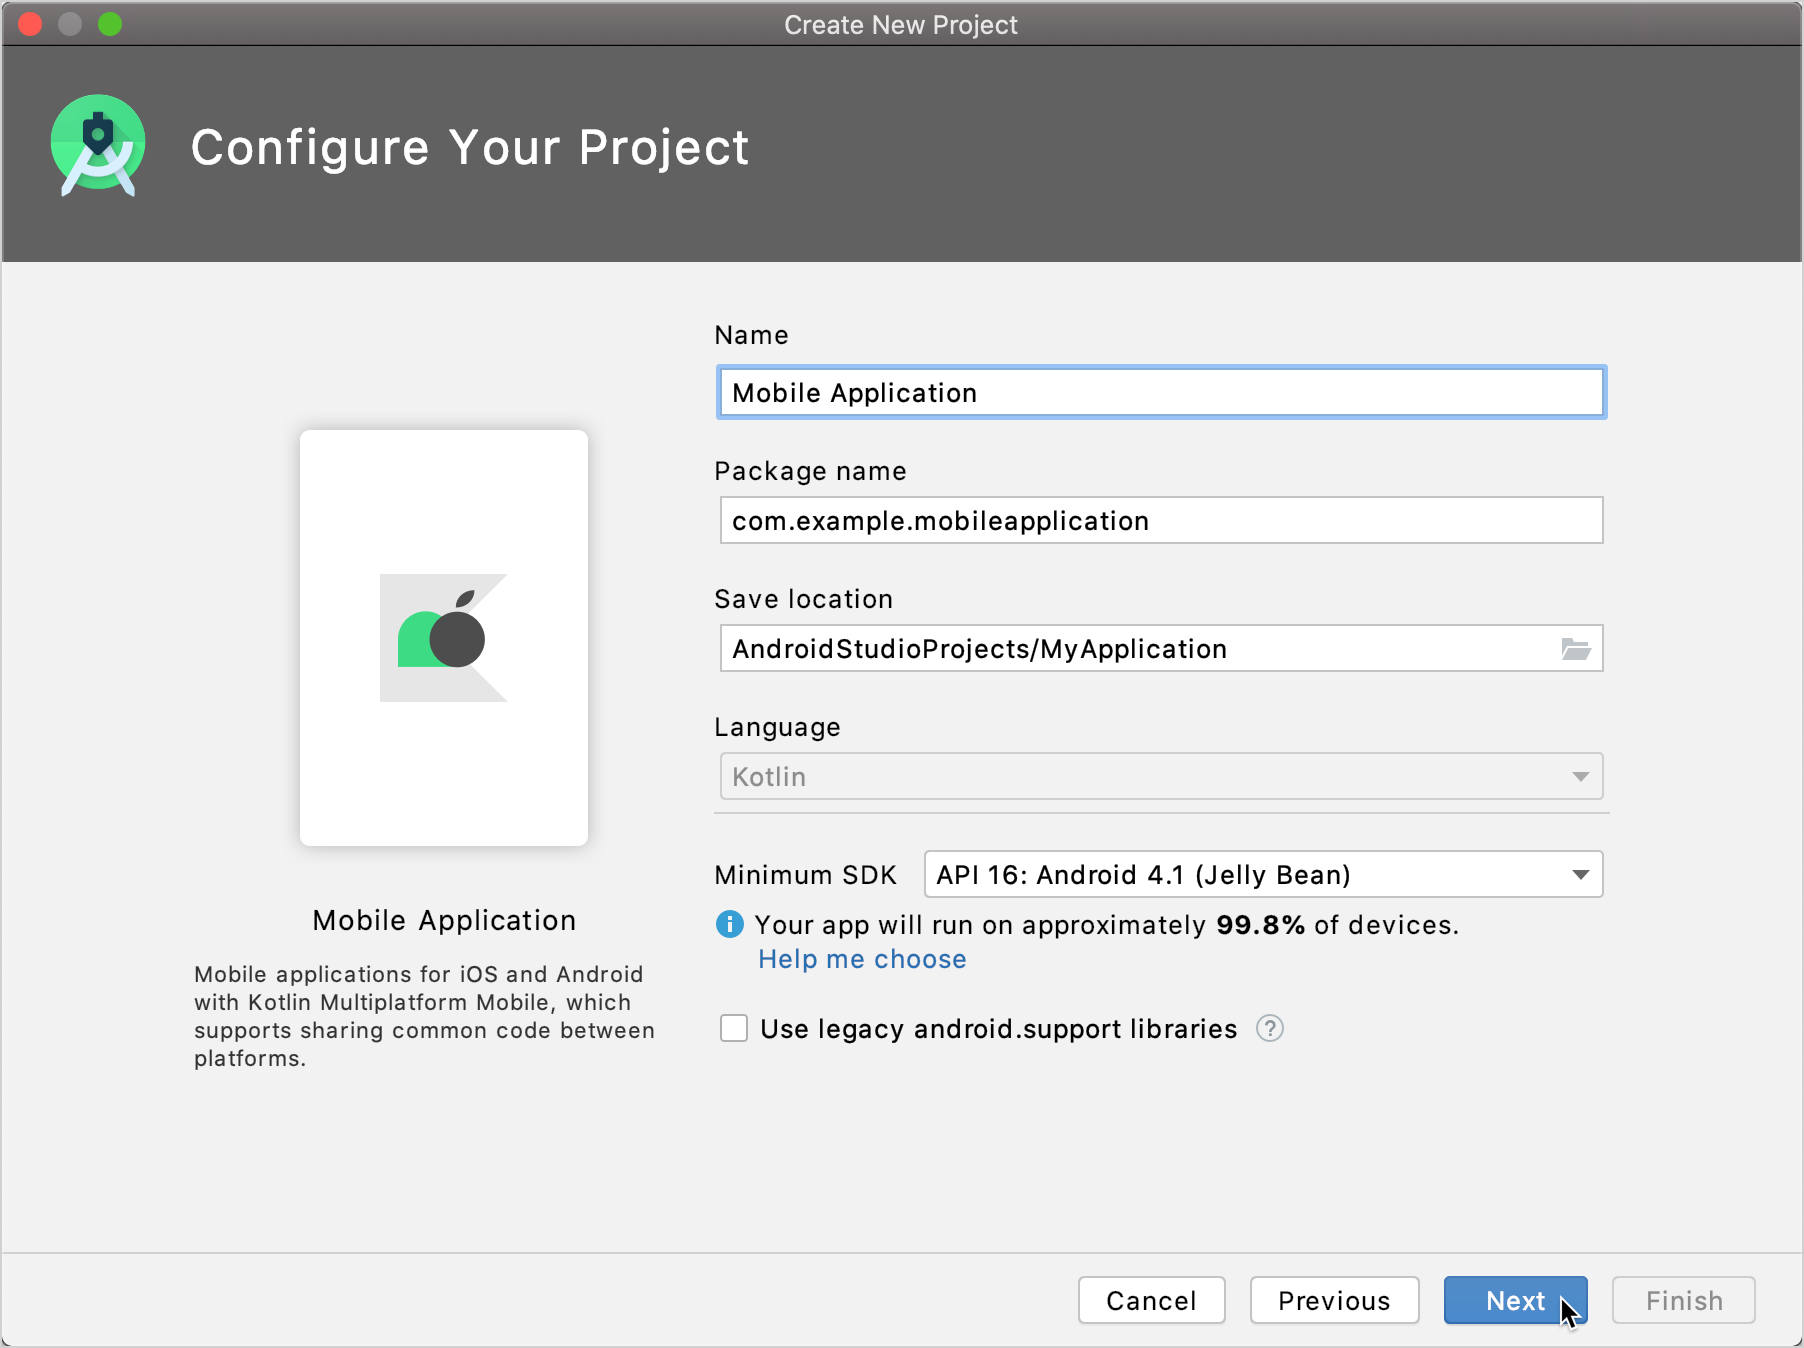
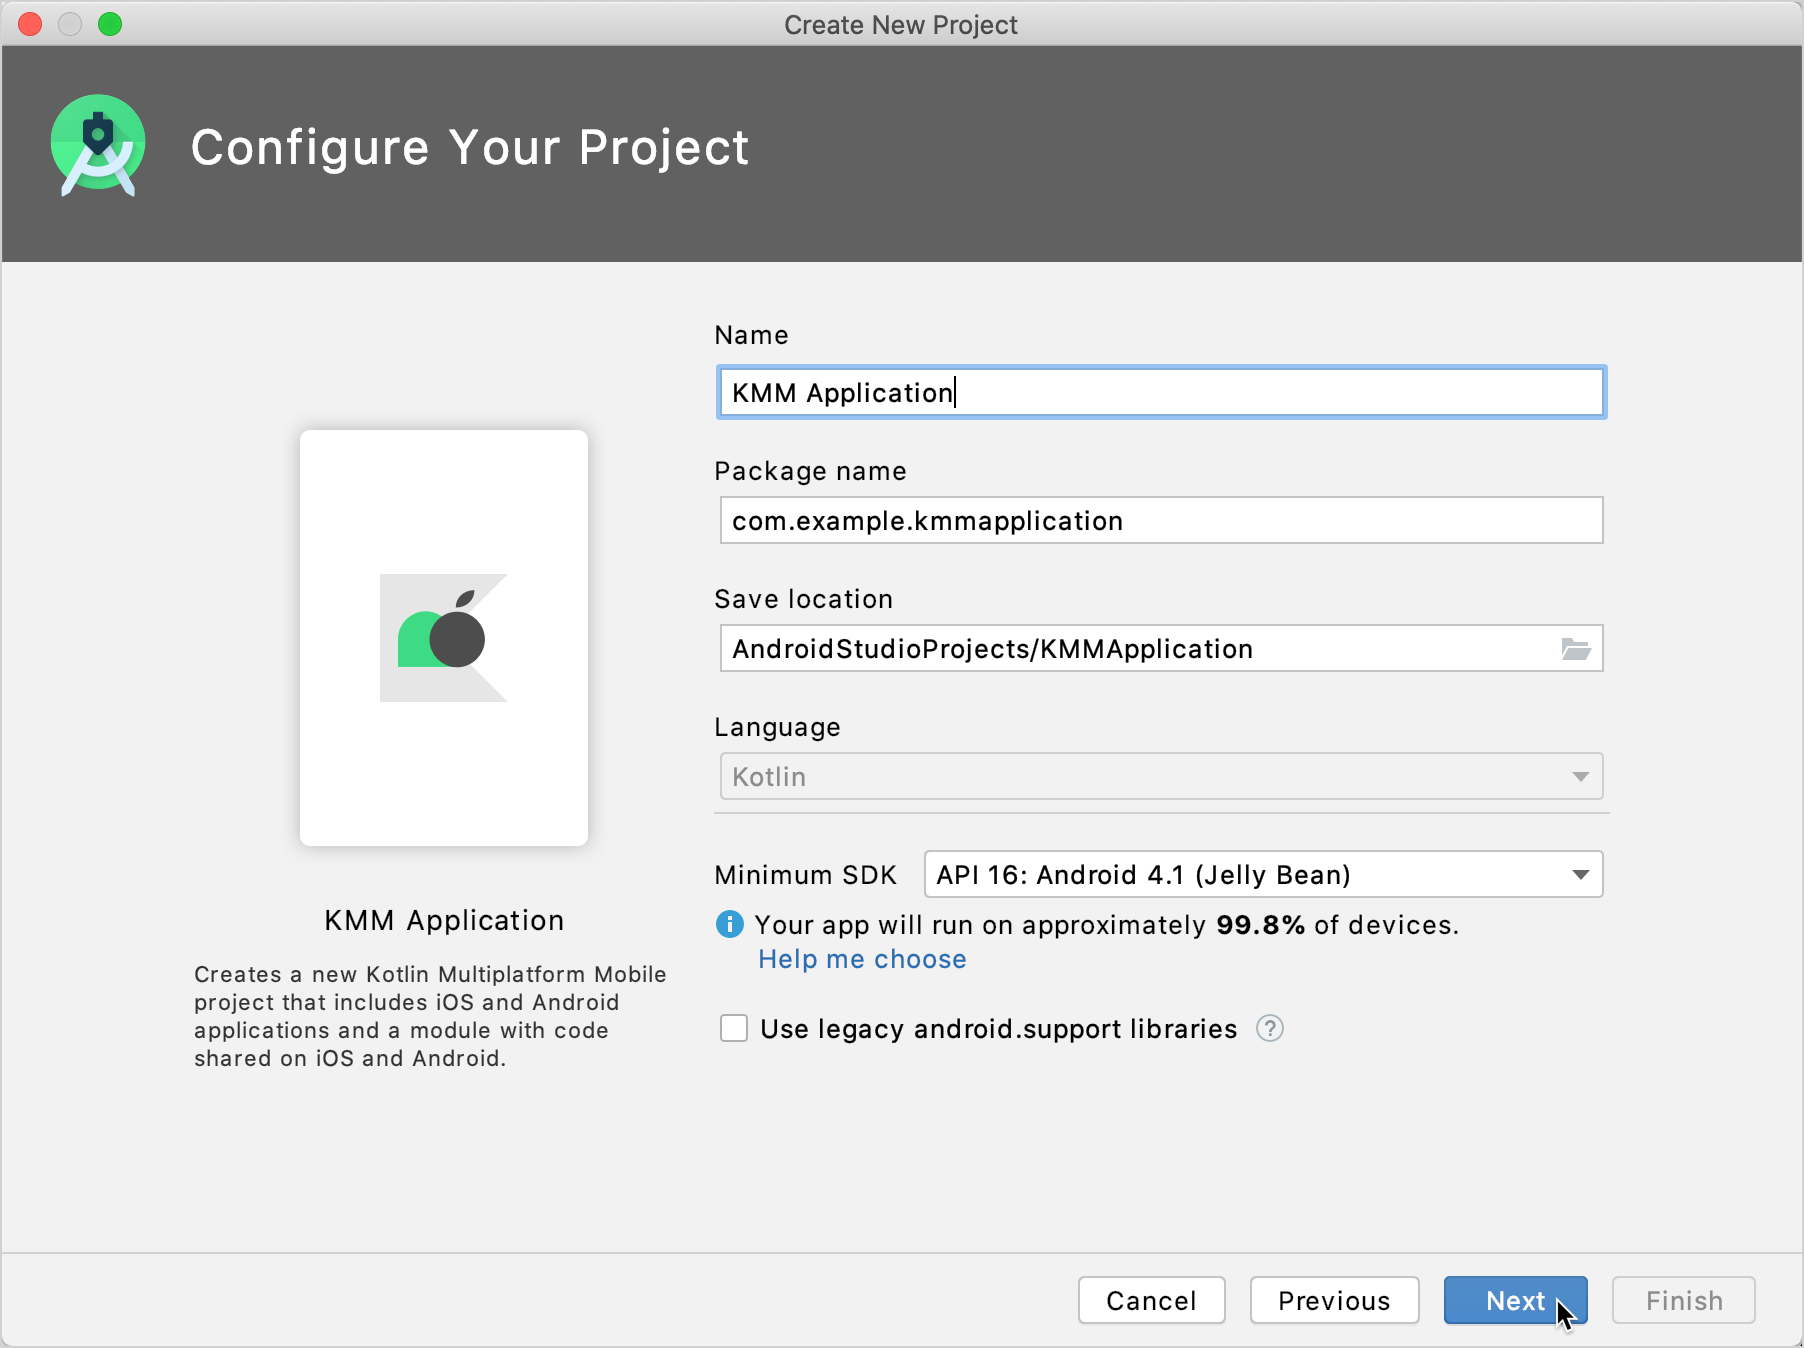
update: updated screenshots for project wizard. and concurrent mutability based on feedback from Roman Elizarov

diff --git a/topics/setup.md b/topics/setup.md
@@ -8,10 +8,11 @@ start by setting up an environment for Kotlin mobile multiplatform (KMM) develop
    system supported by [Android Studio](https://developer.android.com/studio).  
    If you also want to write iOS-specific code and run an iOS application on a simulator or real device, use a Mac with a 
    macOS.  
-2. Install the latest version of [Android Studio](https://developer.android.com/studio) – version 4.1 or higher.  
+2. Install [Android Studio](https://developer.android.com/studio) – version 4.1 or higher.  
     You will use Android Studio for creating your multiplatform applications and 
     running them on device simulators.
-3. If you need to write iOS-specific code and run an iOS application, install the latest version of [Xcode](https://apps.apple.com/us/app/xcode/id497799835) –  version 11.5 or higher.  
+3. If you need to write iOS-specific code and run an iOS application, install[Xcode](https://apps.apple.com/us/app/xcode/id497799835) 
+    –  version 11.3 or higher.                                                                                                                                                                                                                                                                                                                          
     Most of the time, Xcode will work in the background. You will use it to add 
     Swift or Objective-C code to your iOS application and run it on a real device.
 4. Update the Kotlin plugin to version 1.4.0 or higher.  

diff --git a/topics/concurrent-mutability.md b/topics/concurrent-mutability.md
@@ -29,8 +29,8 @@ values inside frozen state.
 
 The Kotlin/Native runtime includes a few different variations of Atomics. You can use them directly or from a library.
 
-Kotlin provides an experimental [`kotlinx.atomicfu`](https://github.com/Kotlin/kotlinx.atomicfu) library that is currently 
-used only for internal purposes and is not supported publicly. You can use [Stately](https://github.com/touchlab/Stately), 
+Kotlin provides an experimental low-level [`kotlinx.atomicfu`](https://github.com/Kotlin/kotlinx.atomicfu) library that is currently 
+used only for internal purposes and is not supported for general usage. You can use [Stately](https://github.com/touchlab/Stately), 
 a utility library for multiplatform compatibility with Kotlin/Native-specific concurrency developed by [Touchlab](https://twitter.com/touchlabhq). 
 
 ### `AtomicInt`/`AtomicLong`

diff --git a/topics/create-first-app.md b/topics/create-first-app.md
@@ -4,7 +4,7 @@
 Now that you've [set up an environment for KMM development](setup.md), it's time to create your first application.
 
 1. In Android Studio, select **File** | **New** | **New Project**.
-2. Select **Mobile Application** in the list of project templates, and click **Next**.  
+2. Select **KMM Application** in the list of project templates, and click **Next**.  
 
     ![Mobile Multiplatform project template](kmm-project-wizard-1.png)
     
